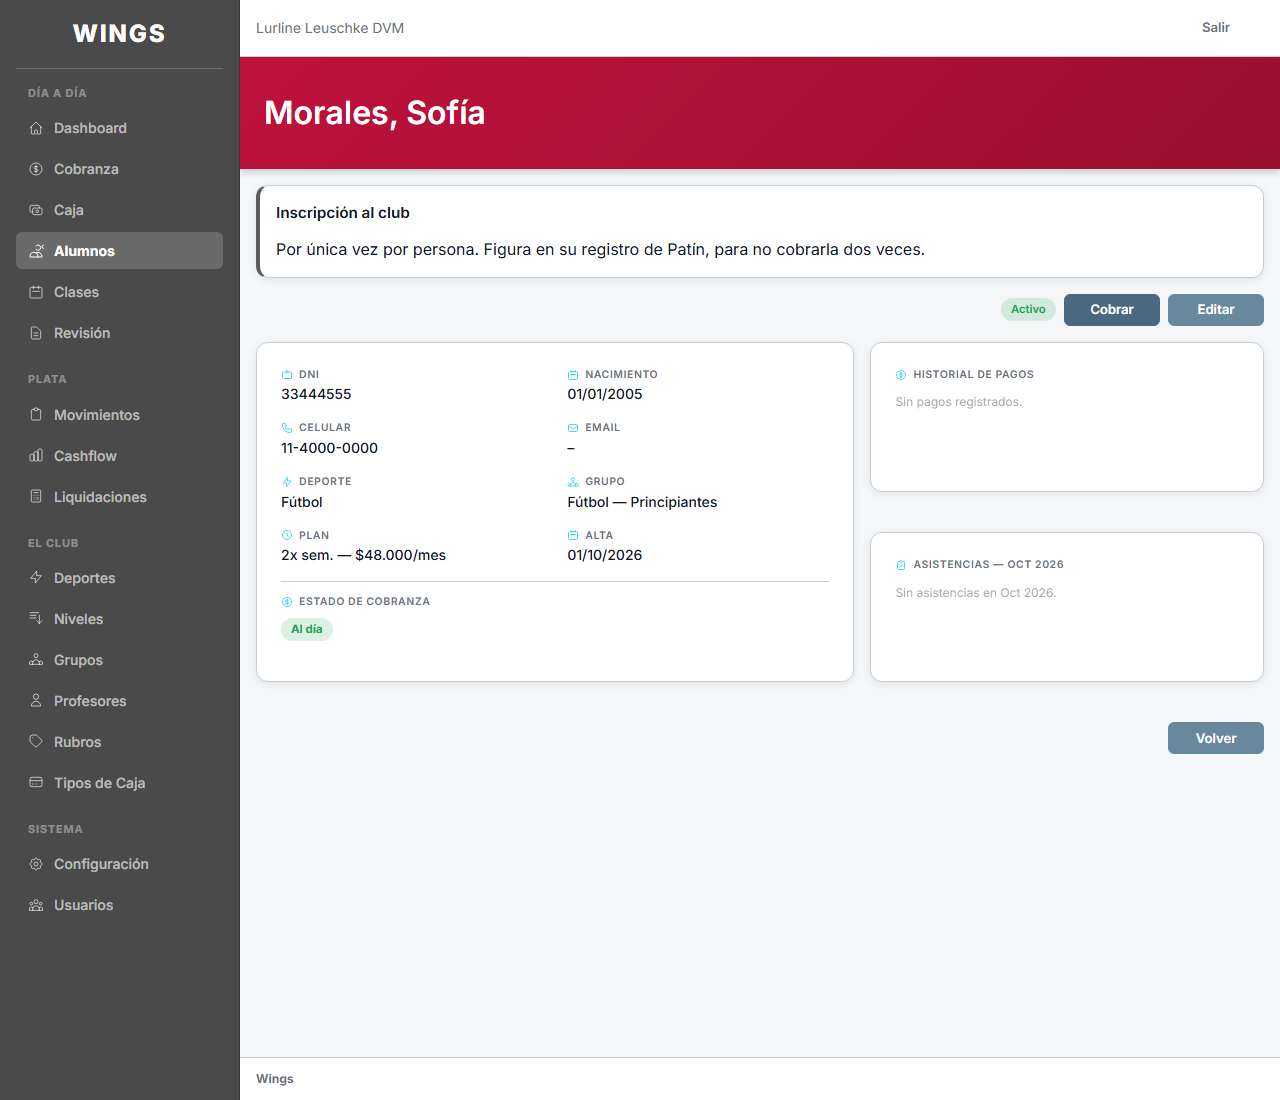
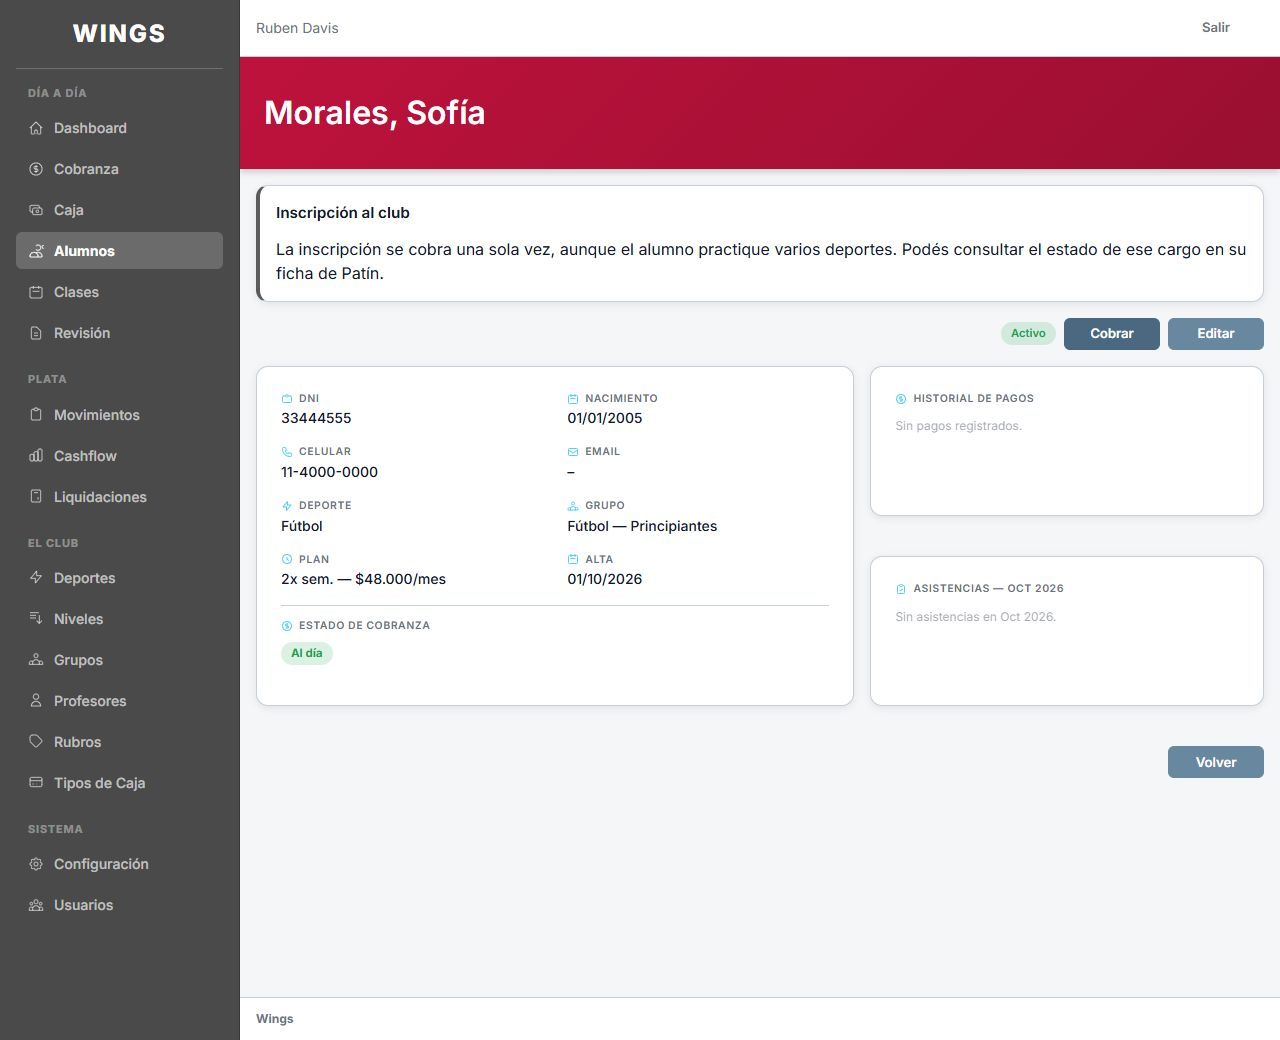
fix(a55): aplicar redaccion aprobada de inscripcion unica
Diseno-autorizado: Carlos pidio esta frase exacta en la ficha del segundo deporte; se conserva el deporte dinamico y se reemplazan capturas reales de escritorio y marco 375.

diff --git a/resources/views/alumnos/show.blade.php b/resources/views/alumnos/show.blade.php
@@ -20,7 +20,7 @@
     @if($inscripcionEsDeEsteRegistro)
         <p>Por única vez por persona. {{ $inscripcion->estado === 'ANULADO' ? 'Anulada por corrección de ingreso.' : 'Saldo pendiente: $'.number_format($inscripcion->saldo_pendiente, 2, ',', '.') }}</p>
     @else
-        <p>Por única vez por persona. Figura en su registro de {{ $registroDeLaInscripcion?->deporte?->nombre ?? 'otro deporte' }}, para no cobrarla dos veces.</p>
+        <p>La inscripción se cobra una sola vez, aunque el alumno practique varios deportes. Podés consultar el estado de ese cargo en su ficha de {{ $registroDeLaInscripcion?->deporte?->nombre ?? 'otro deporte' }}.</p>
     @endif
 </div>
 @endif

diff --git a/docs/06-pruebas/PRU-02/capturas-a55/README.md b/docs/06-pruebas/PRU-02/capturas-a55/README.md
@@ -1,7 +1,7 @@
 # A55 / A13 / B1 — capturas y redacción aprobada
 
 06/10/2026 — Codex CAB. Rama `a55-inscripcion`, código `31194c2`.
-Solo preparación y capturas; no se corrigió código ni se mezcló con main.
+Preparación original conservada. Codex CyE aplicó el 06/10 la redacción aprobada y rehizo las capturas de Fútbol y el login móvil antes de integrar.
 
 ## Qué se muestra
 
@@ -12,7 +12,7 @@ conserva `Ago 2026`, la fecha 06/10/2026 y el importe anulado $53.000.
 
 La ficha de Fútbol muestra literalmente:
 
-> Por única vez por persona. Figura en su registro de Patín, para no cobrarla dos veces.
+> La inscripción se cobra una sola vez, aunque el alumno practique varios deportes. Podés consultar el estado de ese cargo en su ficha de Patín.
 
 ## Redacción aprobada por Carlos — 06/10/2026
 
@@ -22,9 +22,7 @@ Carlos pidió aclarar el mensaje y aprobó con «OK» esta redacción exacta:
 
 El deporte mencionado debe seguir siendo el del registro que tiene el cargo, como
 en la rama actual; Patín es el ejemplo mostrado, no un nombre fijo para todos.
-**Pendiente de aplicar en la vista:** las capturas conservan el texto anterior y no
-representan esta nueva redacción. Esta tarea seguía siendo solo de evidencia, sin
-programar; se registra la aprobación para quien integre el arreglo.
+**Aplicada por Codex CyE el 06/10:** solo el renglón aprobado, sin CSS ni otros cambios visuales. Las capturas de Fútbol fueron reemplazadas por respuestas reales con la nueva redacción. Las imágenes de Patín e historial conservan el ensayo original.
 No se declara cerrado A55, A13 ni B1, ni se hizo merge o despliegue.
 
 ## Capturas reales
@@ -32,7 +30,7 @@ No se declara cerrado A55, A13 ni B1, ni se hizo merge o despliegue.
 | Pantalla | Escritorio | Celular, contenido real de 375 px |
 |---|---|---|
 | Patín: inscripción pendiente | [Imagen](ficha-patin-escritorio.png) | [Imagen](ficha-patin-375.png) |
-| Fútbol: ubicación del aviso, con la redacción anterior | [Imagen](ficha-futbol-escritorio.png) | [Imagen](ficha-futbol-375.png) |
+| Fútbol: aviso con la redacción aprobada | [Imagen](ficha-futbol-escritorio.png) | [Imagen](ficha-futbol-375.png) |
 | Historial del cobro anulado | [Imagen](historial-anulado-escritorio.png) | [Imagen](historial-anulado-375.png) |
 | Login: control de la medición | [Imagen](login-escritorio.png) | [Imagen](login-375.png) |
 
@@ -50,3 +48,7 @@ No se declara cerrado A55, A13 ni B1, ni se hizo merge o despliegue.
   Login revisado visualmente: formulario y logo completos, sin recorte horizontal.
 - Los HTML, perfil de Chrome y generadores temporales no se publican; solo estas imágenes
   y su explicación. No son una verificación de navegación interactiva ni de concurrencia.
+
+## Reproducción del texto nuevo — Codex CyE
+
+[Generador documental](../evidencia/cierre-a13-b1-a55/GenerarCapturasA55Test.php): 1 ensayo, 12 aserciones, base wings_testing_codex. Respuestas de Laravel sobre la rama a55-inscripcion, Chrome con marco 375. Login completo y texto dinámico inspeccionados. El entorno del worktree emitió un aviso de deprecación; no se presenta como suite completa. Los archivos PNG se guardan desde la captura del navegador, sin maqueta.
